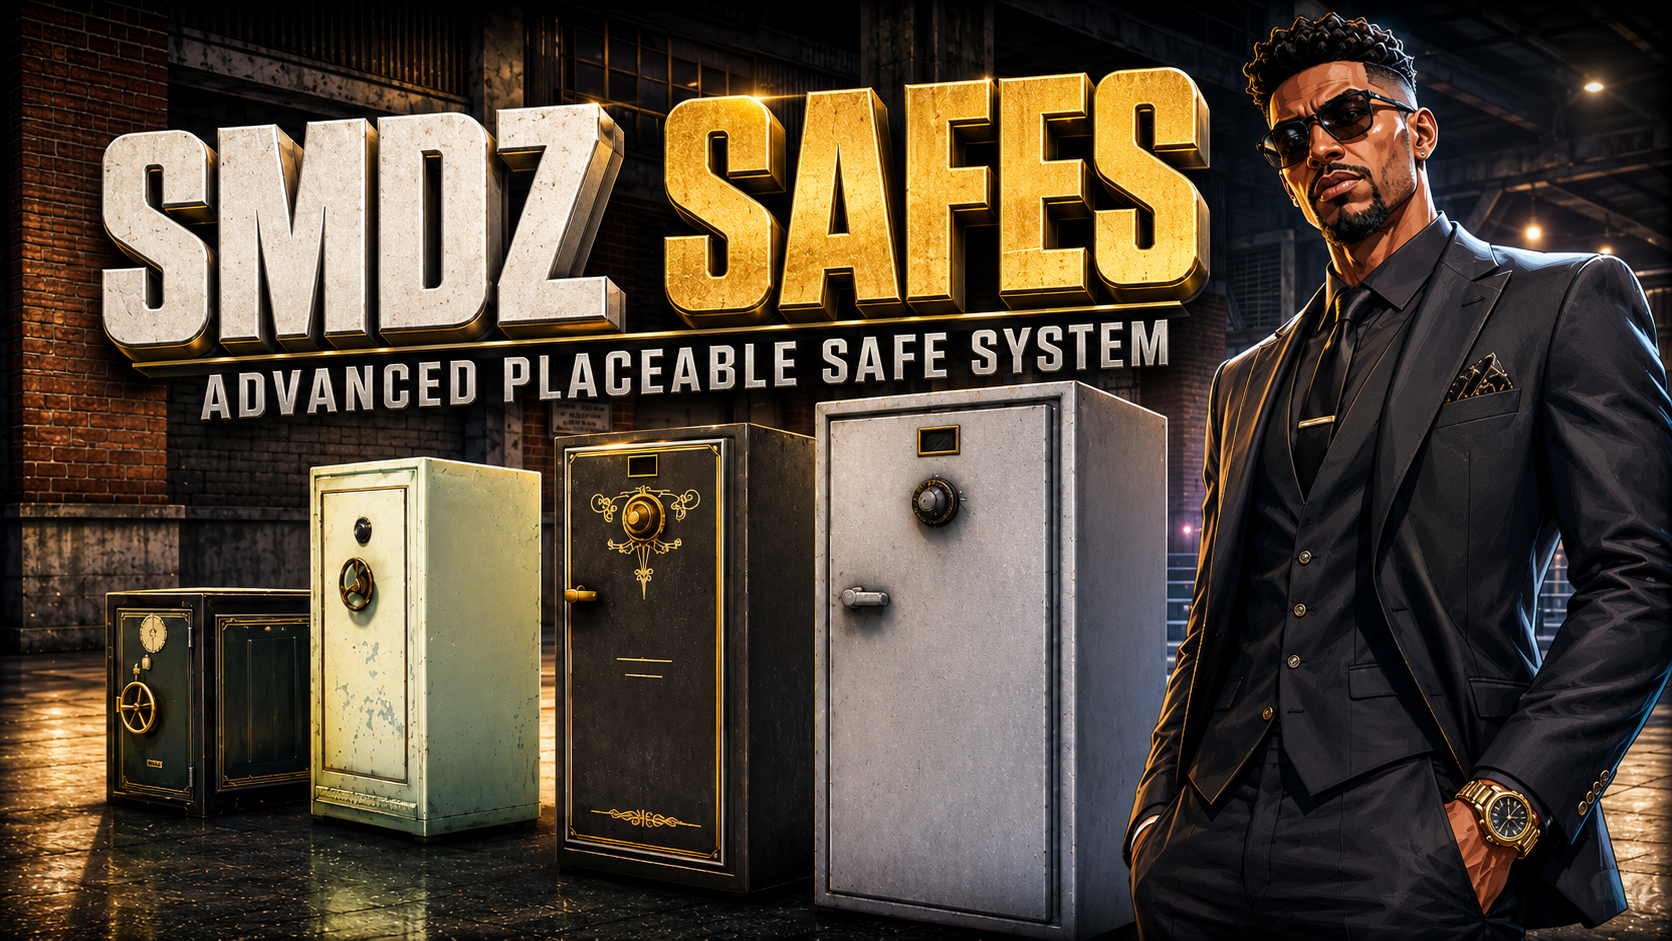
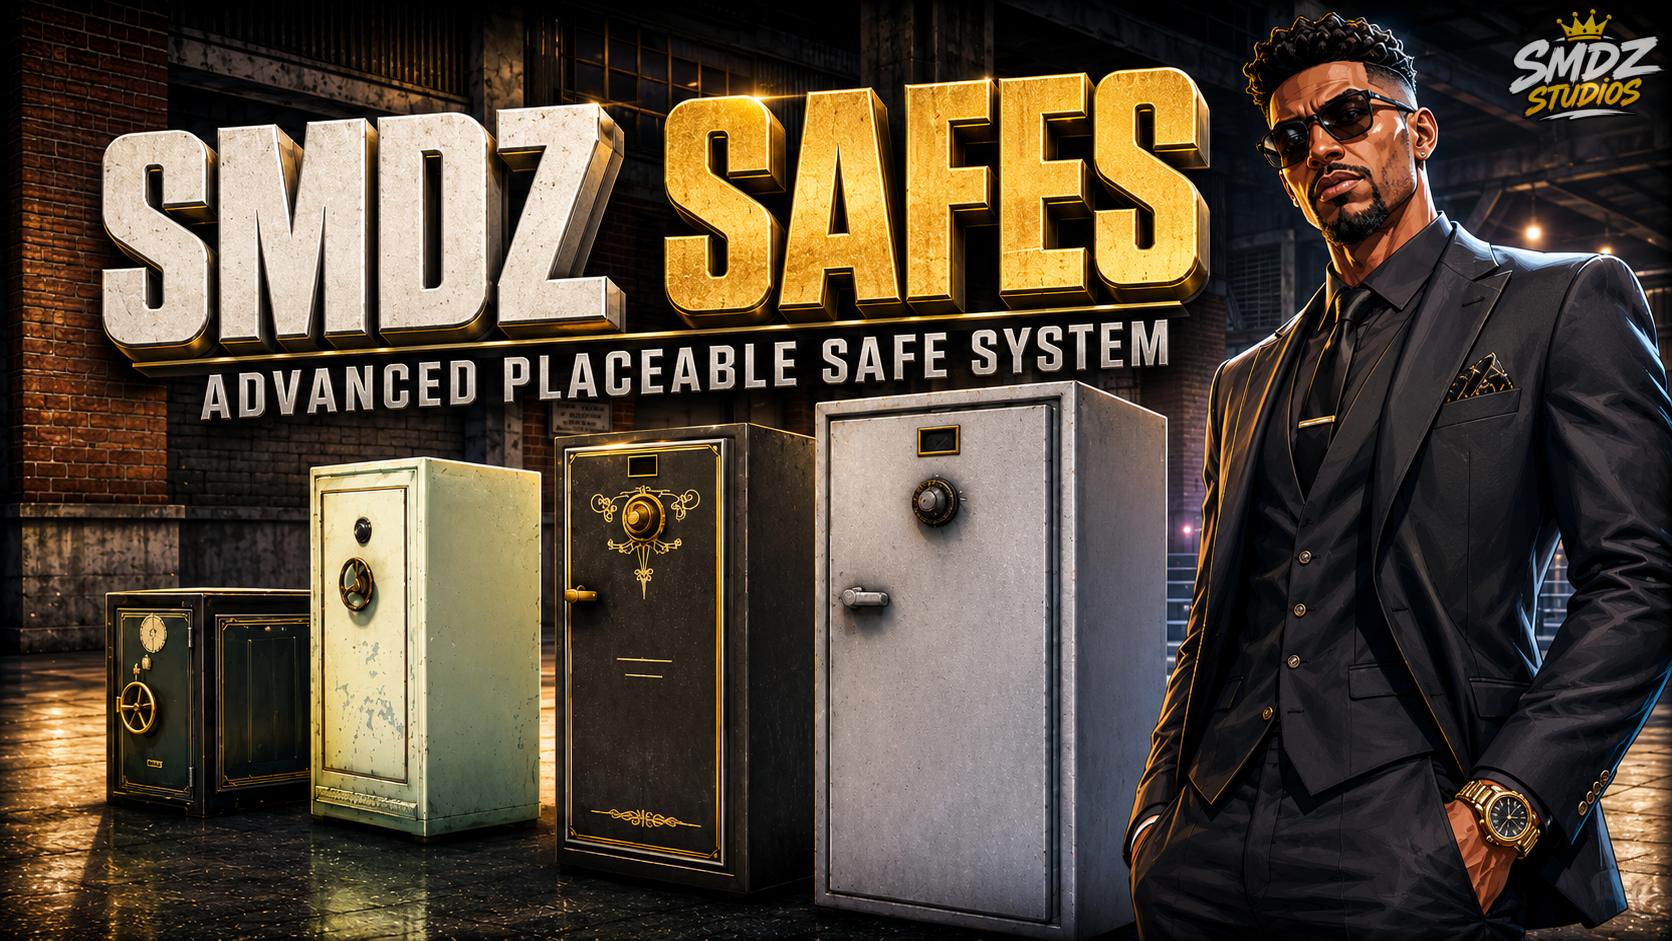
Enable Safes showcase and update image
Uncomment the Safes showcase in portal.md and change the card heading to "Safes System". Also replace assets/safes.png with an updated image. This exposes the SMDZ Safes product card on the portal page.

Changed region(s): [[0.9019, 0.0, 0.9952, 0.1233]]

diff --git a/portal.md b/portal.md
@@ -39,13 +39,13 @@
 
 
 
-<!-- 
+
   <article class="home-showcase-card">
     <div class="home-showcase-media">
       <img src="assets/safes.png" alt="safes preview image" />
     </div>
     <div class="home-showcase-body">
-      <h3>Witness Calls</h3>
+      <h3>Safes System</h3>
       <p>SMDZ Safes is a persistent safe system for FiveM that lets players place safes, protect them with a PIN, share access, and use them as private storage. It includes SQL persistence, configurable capacities, an optional dealer, drill robberies, and smdz_bridge integration for different server setups.</p>
       <div class="home-showcase-tags">
         <span class="tag-paid">PAID</span><span>ESX</span><span>QBCORE</span><span>QBX</span><span class="tag-blue">OPEN SOURCE AVAILABLE</span>
@@ -55,7 +55,7 @@
         <a class="home-showcase-btn home-showcase-btn--buy" href="https://smdz-studios.tebex.io/package/safes" target="_blank" rel="noopener noreferrer">BUY NOW</a>
       </div>
     </div>
-  </article> -->
+  </article>
 
 
   <article class="home-showcase-card">
